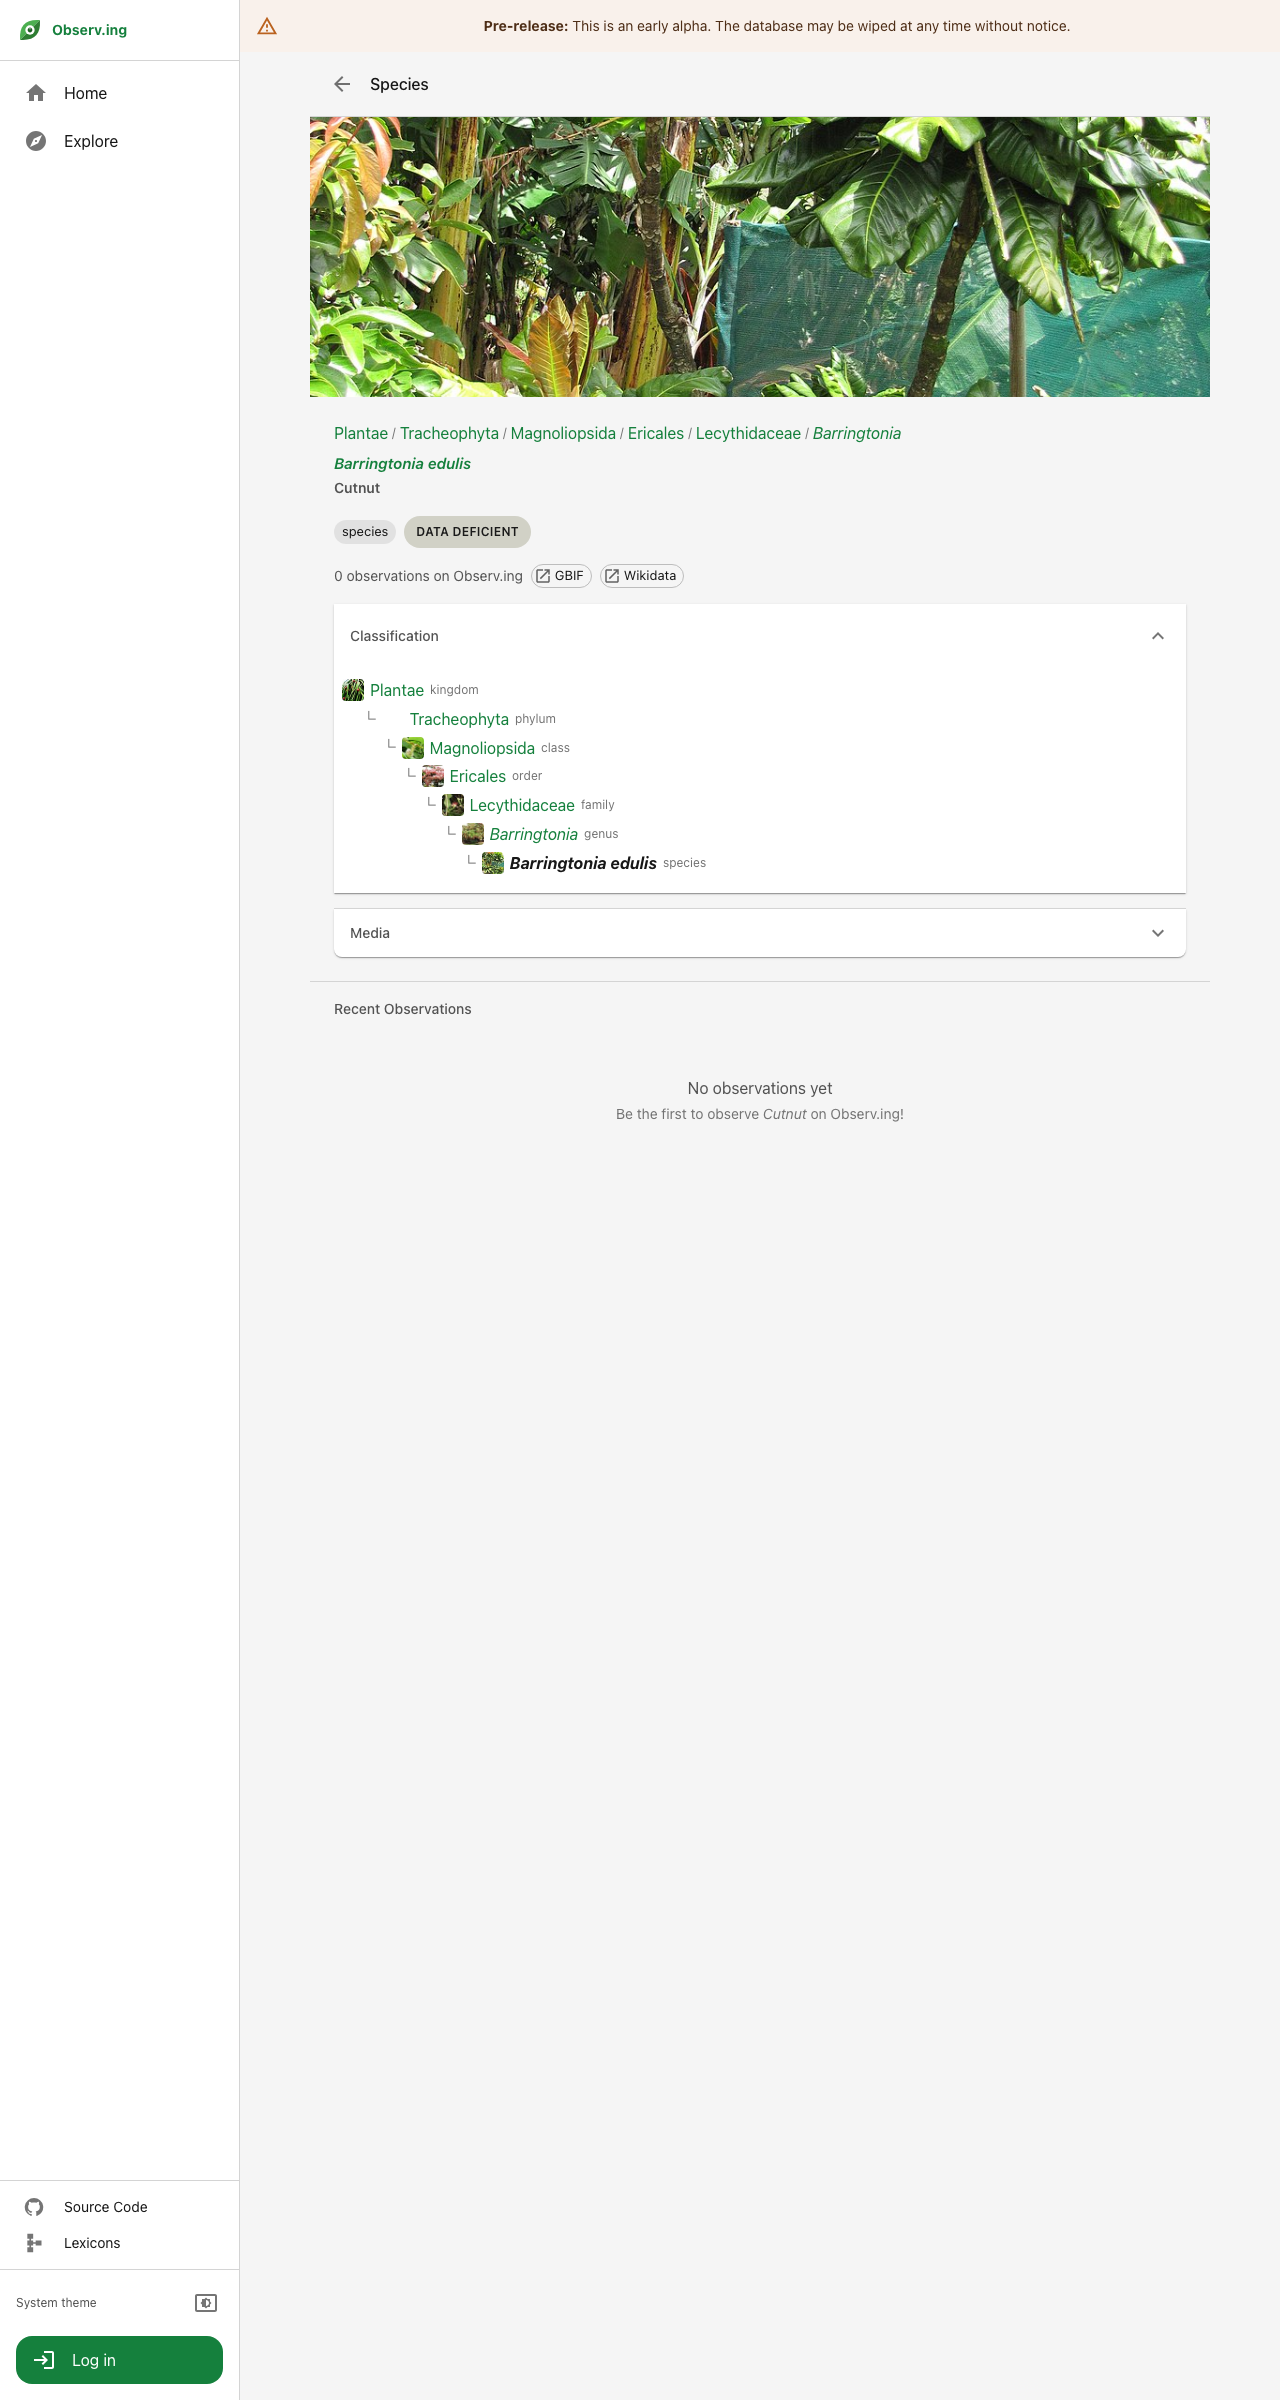
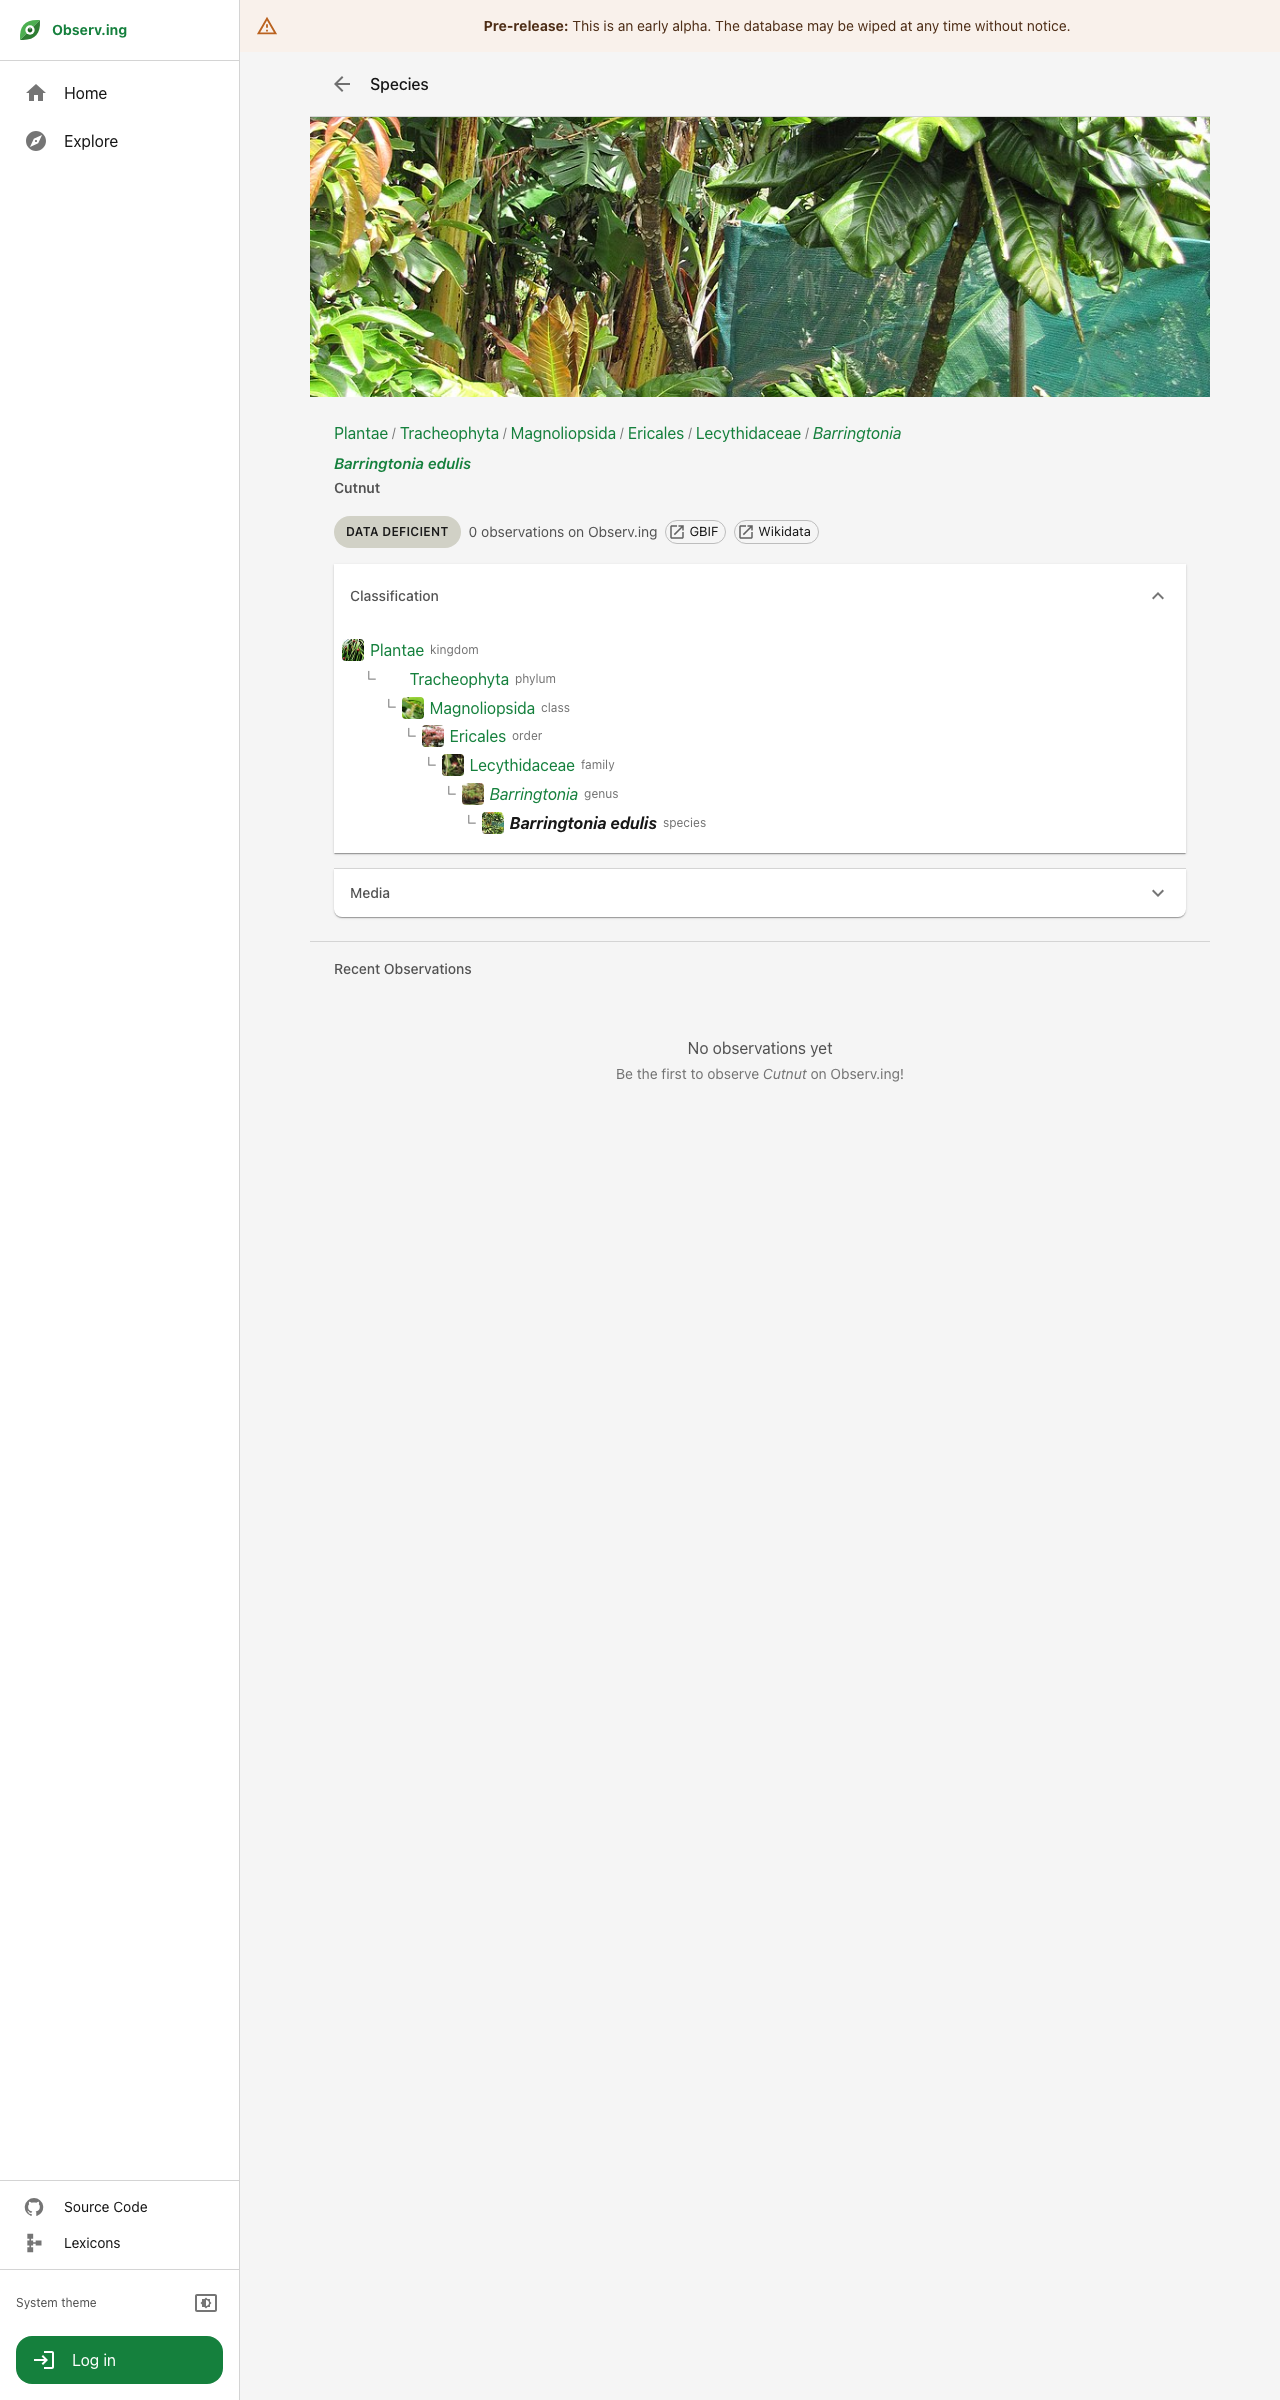
Remove redundant rank chip from taxon detail
The rank is already shown in the header ("Species", "Genus", etc.),
so the chip was duplicative. Also consolidates the conservation status
badge and external link chips into a single row for visual consistency.

Changed region(s): [[0.25, 0.1875, 0.5625, 0.4062], [0.5, 0.4375, 0.6875, 0.4688]]

diff --git a/frontend/src/components/taxon/TaxonDetail.tsx b/frontend/src/components/taxon/TaxonDetail.tsx
@@ -283,9 +283,8 @@ export function TaxonDetail() {
             </Typography>
           )}
 
-          {/* Rank and Conservation Status */}
-          <Stack direction="row" spacing={1} alignItems="center" sx={{ mt: 2 }}>
-            <Chip label={taxon.rank} size="small" color="default" />
+          {/* Stats + External Links */}
+          <Stack direction="row" spacing={1} alignItems="center" sx={{ mt: 2, flexWrap: "wrap" }}>
             {taxon.conservationStatus && (
               <Tooltip title={`${taxon.conservationStatus.category} — IUCN Red List`} arrow>
                 <span>
@@ -294,10 +293,6 @@ export function TaxonDetail() {
               </Tooltip>
             )}
             {taxon.extinct && <Chip label="Extinct" size="small" color="error" />}
-          </Stack>
-
-          {/* Stats + External Links */}
-          <Stack direction="row" spacing={1} alignItems="center" sx={{ mt: 2, flexWrap: "wrap" }}>
             <Typography variant="body2" color="text.secondary">
               {taxon.observationCount} observation{taxon.observationCount !== 1 ? "s" : ""} on
               Observ.ing
